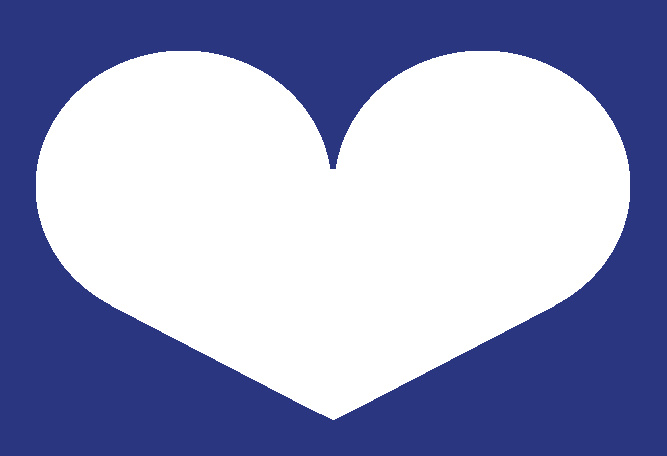
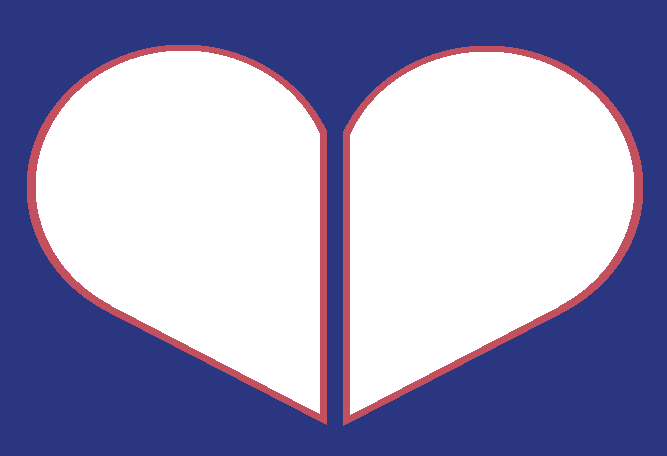
altered no match screen and changed layout of match screen

diff --git a/app/screens/MatchScreen.js b/app/screens/MatchScreen.js
@@ -19,7 +19,6 @@ export default function MatchScreen({ navigation, route }) {
     setNumber(characterLength);
     const { user } = route.params;
     setSelectedUser(user);
-    // getRandomCharacter();
   });
 
   const getRandomCharacter = () => {
@@ -27,12 +26,17 @@ export default function MatchScreen({ navigation, route }) {
       id: 0,
       name: "NO MATCHES",
       line: "you have no matches :'(",
-      image: require("../assets/splash.png"),
+      image: require("../assets/nomatch.png"),
     };
 
     const matchRandom = Math.random();
 
-    if (matchRandom < 0.9 && first === true) {
+    if (matchRandom < 0.1 && first === true) {
+      setCharacter(noMatches);
+      setNoMatchBool(true);
+      setDisabled(true);
+      setFirst(false);
+    } else if (selectedUser.name === "Jerry") {
       setCharacter(noMatches);
       setNoMatchBool(true);
       setDisabled(true);
@@ -42,36 +46,58 @@ export default function MatchScreen({ navigation, route }) {
       const randomCharacter = characters[random];
       setCharacter(randomCharacter);
       setFirst(false);
-      console.log(character);
     }
   };
 
   return (
     <View style={noMatchBool ? styles.backgroundblack : styles.background}>
+      {noMatchBool ? (
+        <View style={styles.nomatchback}>
+          <View style={styles.norow}>
+            <Text style={styles.nomatchtext}>N</Text>
+            <Image
+              style={styles.skull}
+              source={require("../assets/skull.png")}
+            />
+          </View>
+          <Text style={styles.nomatchtext}>MATCHES</Text>
+        </View>
+      ) : (
+        <View style={styles.matchbutton}>
+          <Button
+            color={colors.heartred}
+            accessibilityLabel="MATCH ME"
+            title={first ? "GET MY FIRST MATCH" : "NEW MATCH"}
+            onPress={() => getRandomCharacter()}
+          />
+        </View>
+      )}
       <View style={styles.heart}>
         <Image source={selectedUser.image} style={styles.leftHeart} />
         <Image source={character.image} style={styles.rightHeart} />
       </View>
+      {noMatchBool ? null : (
+        <View style={styles.result}>
+          <Text style={styles.resultName}>{character.name}</Text>
+          <Text style={styles.resultLine}>{character.line}</Text>
+        </View>
+      )}
 
-      <View style={styles.result}>
-        <Text style={styles.resultName}>{character.name}</Text>
-        <Text style={styles.resultLine}>{character.line}</Text>
-      </View>
+      {noMatchBool ? (
+        <Image
+          style={styles.heartoverlay}
+          source={require("../assets/blackheartframe.png")}
+        />
+      ) : (
+        <Image
+          style={styles.heartoverlay}
+          source={require("../assets/heartframe.png")}
+        />
+      )}
 
-      <Image
-        style={styles.heartoverlay}
-        source={require("../assets/heartframe.png")}
-      />
       <View style={styles.buttons}>
         <Button
-          disabled={disabled}
           color={colors.heartred}
-          accessibilityLabel="MATCH ME"
-          title={first ? "GET MY FIRST MATCH" : "NEW MATCH"}
-          onPress={() => getRandomCharacter()}
-        />
-        <Button
-          color={colors.lightblue}
           accessibilityLabel="EXIT"
           title="EXIT"
           onPress={() => navigation.navigate("Welcome")}
@@ -95,13 +121,14 @@ const styles = StyleSheet.create({
     alignItems: "center",
   },
   buttons: {
+    justifyContent: "space-between",
     position: "absolute",
-    bottom: 50,
+    bottom: 10,
   },
   heart: {
     flexDirection: "row",
     position: "absolute",
-    top: 140,
+    top: 200,
   },
   leftHeart: {
     height: 180,
@@ -116,8 +143,12 @@ const styles = StyleSheet.create({
     width: 300,
     resizeMode: "cover",
     position: "absolute",
-    top: 110,
+    top: 175,
     // marginRight: 5,
+  },
+  matchbutton: {
+    position: "absolute",
+    top: 100,
   },
   rightHeart: {
     height: 180,
@@ -130,12 +161,29 @@ const styles = StyleSheet.create({
   logotext: {
     color: colors.lightblue,
   },
+  nomatchback: {
+    padding: 20,
+    justifyContent: "center",
+    alignItems: "center",
+    position: "absolute",
+    top: 60,
+    backgroundColor: "#ff0d00",
+    width: "100%",
+  },
+  nomatchtext: {
+    fontSize: 30,
+    fontWeight: "900",
+  },
+  norow: {
+    flexDirection: "row",
+    alignItems: "center",
+  },
   result: {
     padding: 30,
     justifyContent: "center",
     alignItems: "center",
     position: "absolute",
-    top: 350,
+    top: 390,
   },
   resultLine: {
     fontSize: 20,
@@ -147,5 +195,10 @@ const styles = StyleSheet.create({
     fontSize: 25,
     fontWeight: "600",
     color: colors.lightblue,
+  },
+  skull: {
+    height: 23,
+    width: 18,
+    resizeMode: "cover",
   },
 });

diff --git a/app/config/characters.js b/app/config/characters.js
@@ -1,15 +1,15 @@
 export default [
-  {
-    id: 1,
-    name: "Rick",
-    line:
-      'WHY ARE YOU ON HERE?! I hate to break it to you but what people call "love" is just a chemical reaction that compels animals to breed.',
-    image: require("../assets/rick.png"),
-  },
+  // {
+  //   id: 1,
+  //   name: "Rick",
+  //   line:
+  //     'WHY ARE YOU ON HERE?! I hate to break it to you but what people call "love" is just a chemical reaction that compels animals to breed.',
+  //   image: require("../assets/rick.png"),
+  // },
   {
     id: 2,
     name: "Noob-noob",
-    line: "GOD DAMN!",
+    line: "Goooodddd daaaammmn!",
     image: require("../assets/noob.png"),
   },
   {
